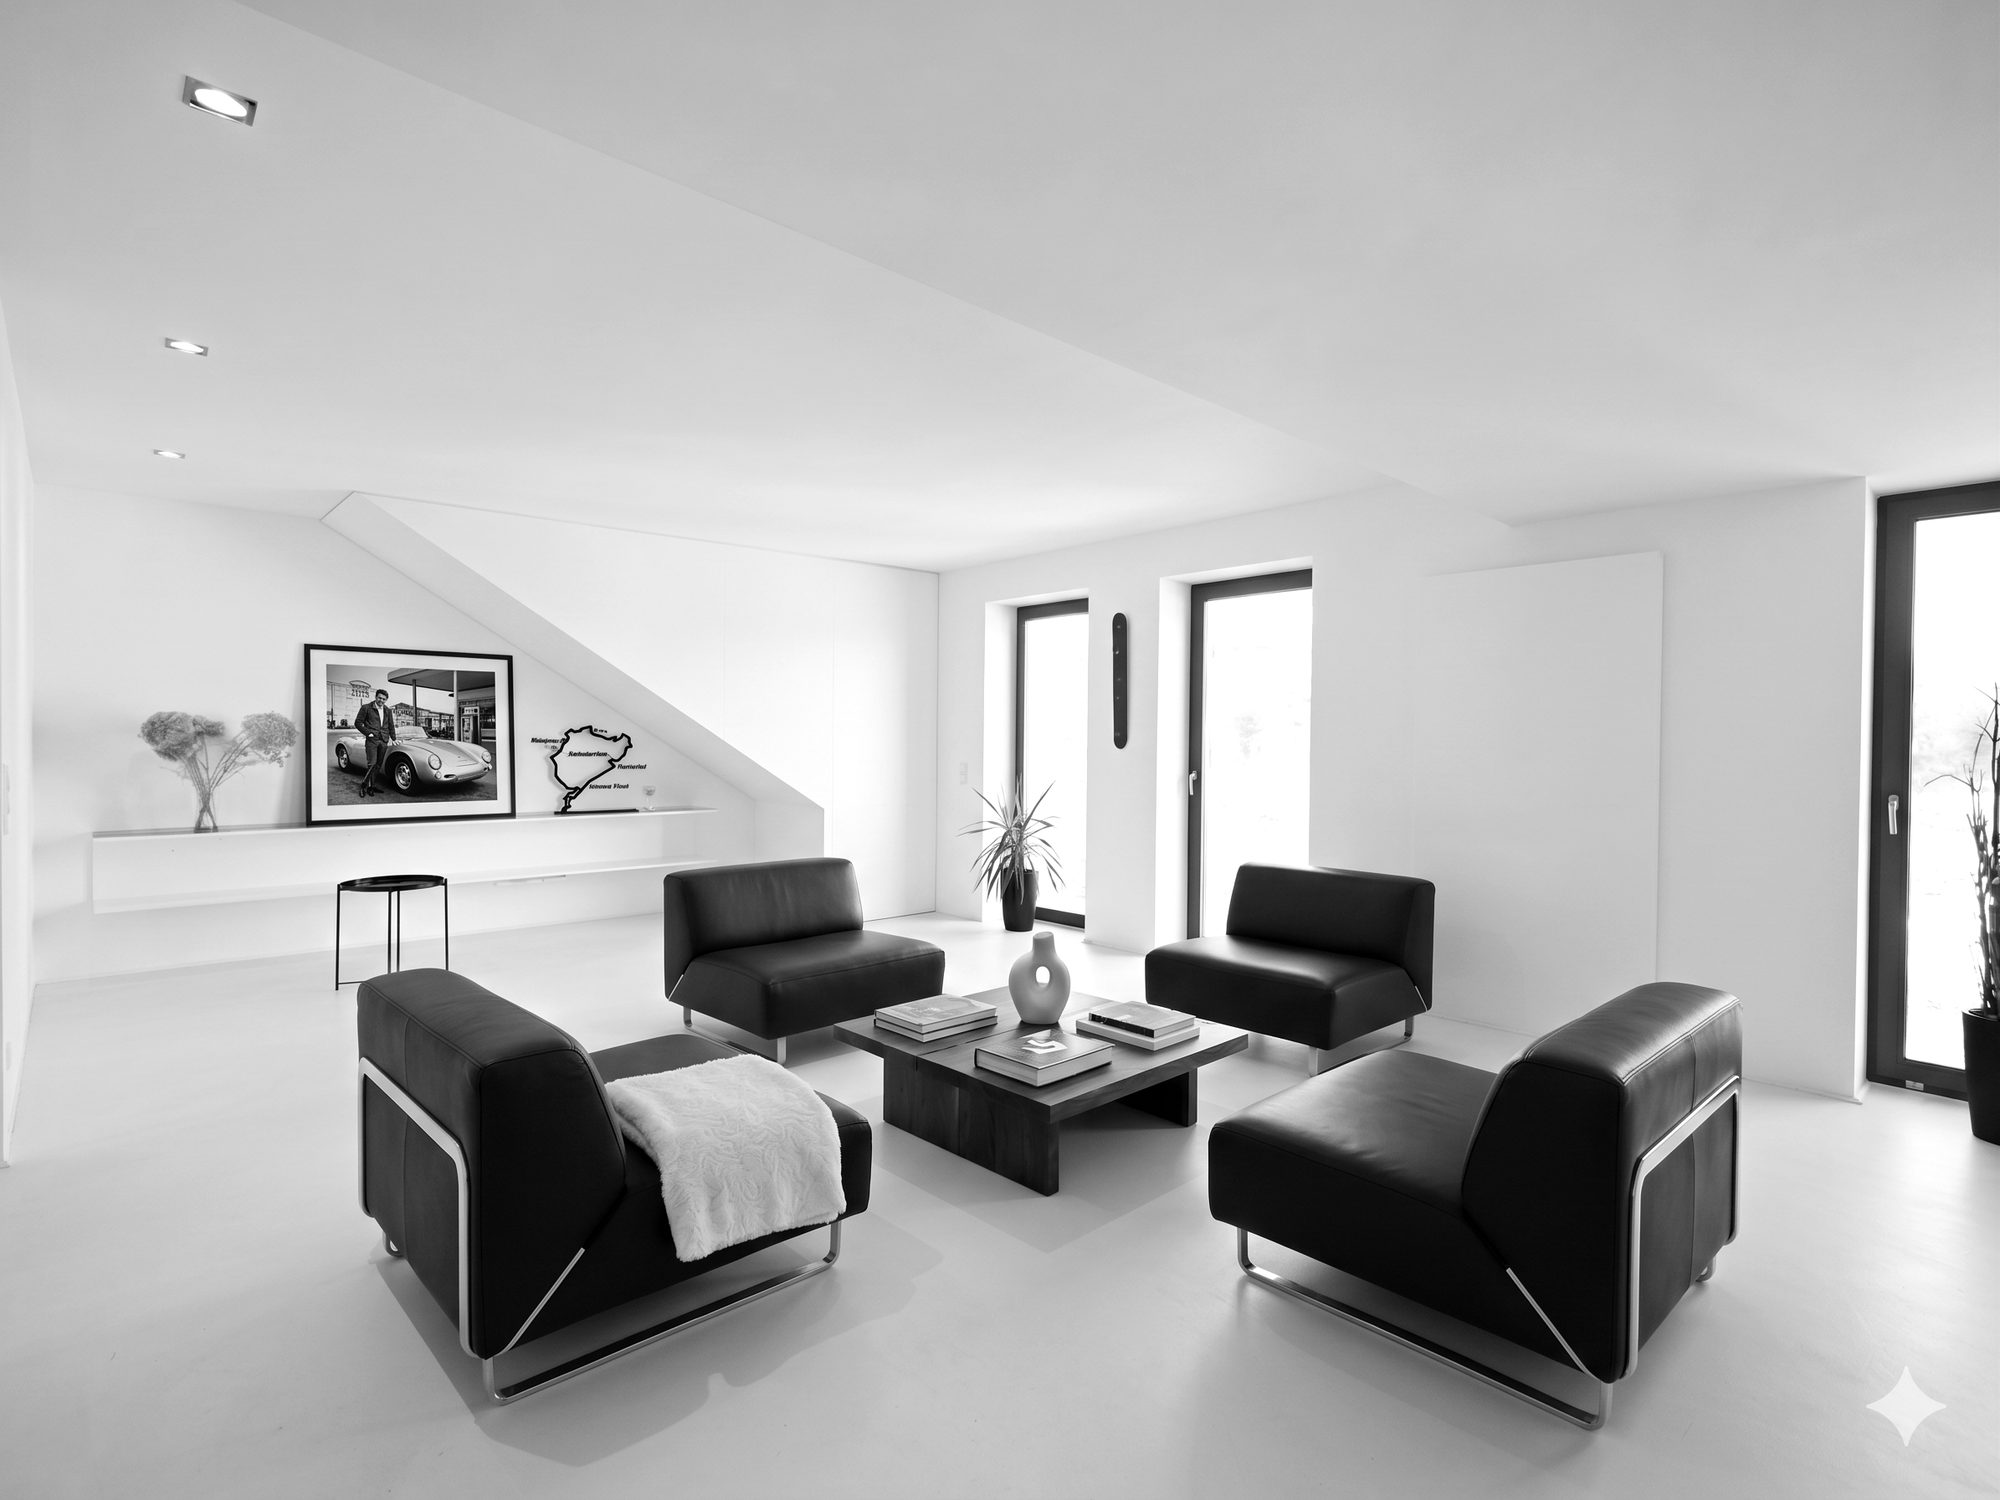
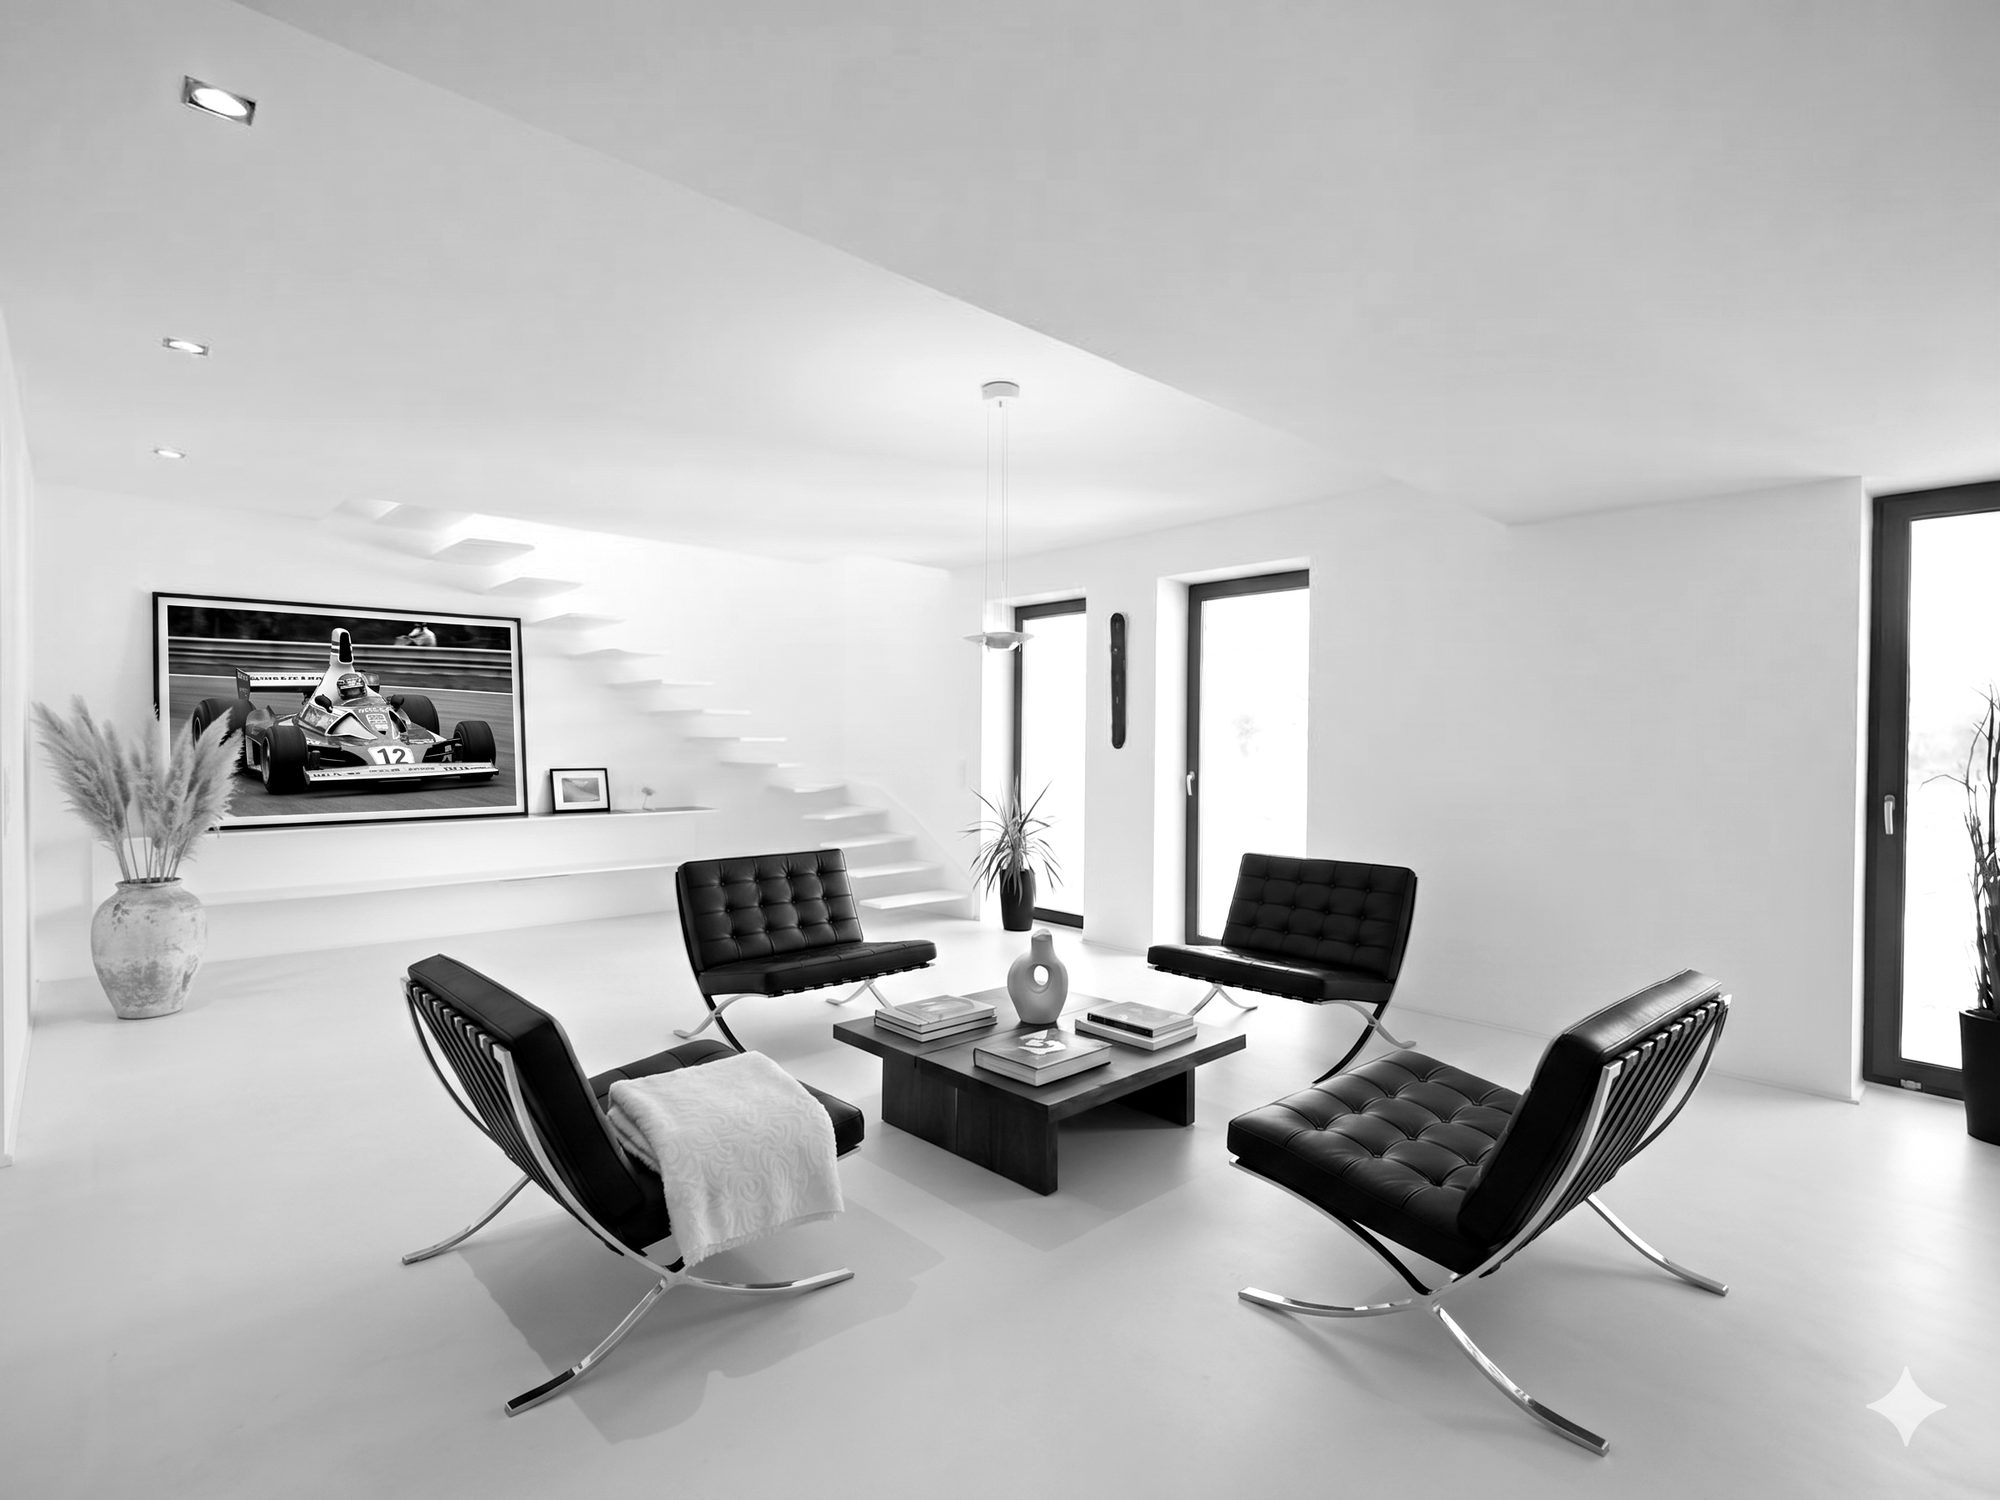
Studio-Foto durch neues Bild ersetzt (Graustufen, komprimiert 6,05 MB -> 177 KB, 2000x1500); Cache-Bust ?v=bw1 -> bw2

diff --git a/ueber.html b/ueber.html
@@ -126,7 +126,7 @@
     <div class="corners wrap"><span>Das Studio – Raum für Kreativität &amp; Austausch</span><span class="r">08</span></div>
     <h2 class="h2 wrap" style="margin-bottom:clamp(32px,4vw,52px);">Wo Ideen Raum bekommen.</h2>
     <figure class="figure">
-      <img class="figure__img" src="/assets/Studio.jpg?v=bw1" alt="B_77 Studio in Siegen – heller, minimalistischer Raum mit freitragender Treppe" loading="lazy" width="2000" height="1500">
+      <img class="figure__img" src="/assets/Studio.jpg?v=bw2" alt="B_77 Studio in Siegen – heller, minimalistischer Raum mit freitragender Treppe" loading="lazy" width="2000" height="1500">
       <figcaption class="figure__cap"><span>B_77 Studio · Siegen</span><span>Raum für Kreativität, Austausch &amp; Fokus</span></figcaption>
     </figure>
     <div class="prose" style="margin-top:clamp(36px,4.5vw,60px);">
